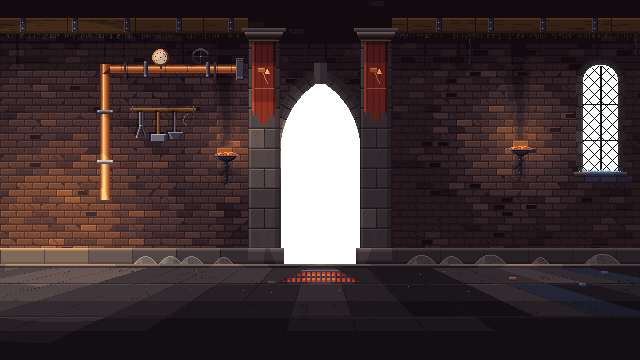
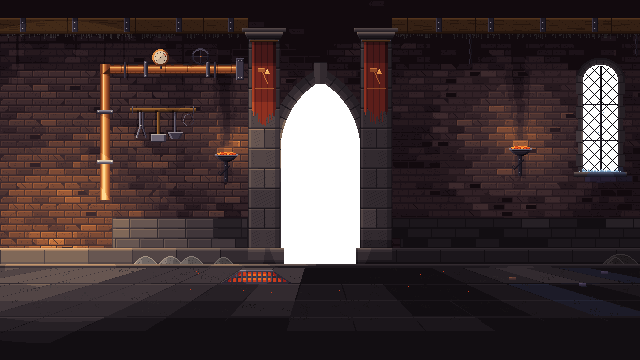
art: F2-SALA — ritmo del ladrillo y fondo tranquilo tras los enemigos (C19)
- Tras los enemigos: juntas a 1,0 paso del ladrillo (antes ~2,4), zócalo de sillería, paños de ladrillo,
  suelo −1 paso. Rejilla a x 256, fuera de las placas de PV. Vetas del ciclo II fuera de los huecos.
- 4 variantes normales y 2 de tiro, ciclos I y II, rehorneadas; test_mv: nueva check_stage.
- Contraste mínimo a 1/4 en 8 salas: ácaro 0,043–0,061 → 0,070–0,099; limo 0,033–0,043 → 0,076–0,086;
  murciélago sin cambio (su valor medio es el del muro: se corrige en la criatura).
Pendiente: muro del tiro y saeteras. Evidencia y diario en docs/reviews/v04/mundo_vivo/f2_sala/.

Claude-Session: https://claude.ai/code/session_01QNUS8YfdZMMBUQPTLseeFn

diff --git a/docs/reviews/v04/mundo_vivo/f2_sala/diario.md b/docs/reviews/v04/mundo_vivo/f2_sala/diario.md
@@ -1,0 +1,70 @@
+# F2-SALA · Diario (C19 y lectura de criaturas contra la sala)
+
+## Cambios (todo en `scripts/art/bg/bg_act1.gd`, horneado en `assets/baked/rooms/`)
+- **Escena de los enemigos** (`STAGE_X = 300`, borde dentado por hiladas): las juntas quedan a −1 paso del ladrillo vecino
+  (`_joint_v` compensa el paso de luz que la junta pierde al hornear). Medida en el índice: tendeles a 0,97–1,12 pasos del
+  ladrillo tras los enemigos, frente a 2,16–2,55 en el muro de la heroína (6 variantes, ciclo I). Prueba nueva en
+  `tests/art/test_mv.gd` (`check_stage`).
+- **Zócalo de sillería** (y 218–248, 3 hiladas de 10 px, sillares de 24–32 px, extremos dentados) en las dos paredes. Tras
+  los enemigos queda 1 paso en sombra y con juntas a −1. Rompe el ritmo del ladrillo justo donde están los pies.
+- **Grupos de ladrillo de otra hornada**: paños de ~3×3 piezas, −1 (o +1 fuera de la escena), con borde dentado.
+- **Suelo y zócalo tras los enemigos −1** (canto del zócalo y del suelo, −2). El charco de los braseros de la escena es menor
+  y ya no ilumina el canto del suelo. Los montones de ceniza salen de los huecos x 320–602. El pie del pilar de x 360 queda
+  en sombra sólo por debajo de y 240, para no restar al murciélago en x 350.
+- **Rejilla del suelo** a x 256 (`GRATE_X`, ancho 221–291): queda entre la placa de la heroína (≤ 201) y la primera de
+  enemigo (≥ 311). Se mueven también su luz y el ancla `grate`, de la que salen las brasas de `AmbientFlue`.
+- **Vetas del ciclo II**: los focos salen de detrás de los enemigos (de 470,244 y 556,160 a 614,244 y 436,146).
+- No cambia: paleta (sólo `Palette`), fuentes vivas, parpadeos ni presupuesto de movimiento. Las capas lejana y de cielo
+  tampoco se tocan.
+
+## Medida de contraste (gris a 1/4, `test_da.thumbnail_separation`)
+Método: `BgAct1.build` de las 12 variantes (4 normales y 2 de tiro × ciclos I y II), con las capas compuestas en vista previa
+(luz dinámica 0). Encima, cada fotograma de reposo horneado de la criatura, centrado como `FighterView` (centro del
+rectángulo usado del f0, socket `ground` en y 264). Se toma el **mínimo sobre los fotogramas** en los huecos reales de
+`enemy_db` (acto 1). `mite*` es el cuerpo sin cera ni llama, como en F2-CRIA2b. «Con placa»: la misma escena con la placa
+de PV recortada de la captura y pegada bajo los pies.
+
+| Criatura@hueco | Sin placa: antes → después (mín. de 8 salas) | Con placa: antes → después |
+|---|---|---|
+| `candle_mite*` @350/396/460/540/572 | 0,048 / 0,061 / 0,059 / 0,043 / 0,045 → **0,079 / 0,094 / 0,099 / 0,082 / 0,070** | 0,02 → 0,04–0,05 |
+| `candle_mite` entero @350/572 | 0,174 / 0,213 → 0,201 / 0,248 | 0,15 / 0,19 → 0,17 / 0,21 |
+| `ash_slime` @396/466/540 | 0,043 / 0,042 / 0,033 → **0,078 / 0,086 / 0,076** | 0,01–0,02 → 0,03–0,05 |
+| `cinder_bat` @350 | 0,075 → 0,075 | igual |
+| `cinder_bat` @396–572 | 0,000–0,007 → 0,000–0,010 | igual |
+| `soot_golem` @396/466 | 0,044 / 0,043 → 0,061 / 0,074 | 0,03 → 0,04–0,05 |
+| `ember_magpie` @396/466 | 0,104 / 0,118 → 0,138 / 0,156 | 0,08 / 0,10 → 0,11 / 0,13 |
+| `flame_moth` @396/540 | 0,076 / 0,092 → 0,084 / 0,098 | igual |
+| `hollow_knight` @466 (tiro) | 0,097 → 0,102 | 0,084 → 0,085 |
+
+En capturas reales del recorrido (piso 4; fotograma localizado por encaje exacto de color):
+
+| Captura | Antes | Después |
+|---|---|---|
+| `07` gólem@350 · urraca@460 · babosa@572 | 0,027 · 0,114 · 0,030 | 0,013 · 0,147 · 0,062 |
+| `18b` murciélago@350 · polilla@460 · ácaro*@572 · ácaro@572 | 0,101 · 0,106 · 0,068 · 0,226 | 0,101 · 0,113 · 0,097 · 0,252 |
+
+## Por qué no llega todo a 0,10 (pendiente honesto)
+- **El murciélago no se arregla desde la sala.** Su media es 0,125, la misma que el muro, y sus alas finas dejan ~30 % de
+  fondo dentro de sus celdas de figura. Así Δ ≈ 0,7·|muro − 0,125|, y pasar pide un muro ≥ 0,27 (ladrillo paso 7). Lo
+  simulé con el muro superior a 0,28–0,36 y el zócalo a 0,06. El murciélago pasa en 396–572, pero el gólem, la babosa y la
+  polilla caen a 0,00–0,06. Con criaturas de medias 0,125 (murciélago), 0,19–0,20 (gólem, babosa, polilla) y 0,26–0,29
+  (urraca, ácaro), ningún valor de fondo las separa a todas. Hace falta luz de recorte o canto en la criatura (C13 sigue
+  abierta para el murciélago, archivos de criaturas).
+- **Ácaro y babosa** quedan en 0,07–0,10. Lo que falta lo ponen su propia base oscura (filas de sombra dentro de la figura)
+  y el arco o el pilar en x 350/396. Bajar más el zócalo y el suelo los deja casi negros: es aplanar la sala.
+- **La placa de PV** pesa mucho: barra roja 0,53 y cifras 0,90 dentro del anillo. Con placa casi nada llega a 0,10. Si el
+  criterio §4.1 se aplica en juego, hay que decidir si la placa cuenta como entorno (dirección/HUD).
+- **Gólem en x 350** (sólo en el recorrido; en `enemy_db` el gólem va a 396/466) baja de 0,027 a 0,013: allí el arco es más
+  claro que él y el pie del pilar, más oscuro, le resta.
+
+## No hecho / no comprobado
+- Muro del tiro menos plano y saeteras lejanas: no tocados (capa lejana). `check_room_quality` sigue en verde.
+- Vetas: sólo cambié los focos. El trazado en escalera sigue igual.
+- Ciclos II en juego, rendimiento y el pico C20: sin medir. Las capturas son por software (xvfb).
+
+## Evidencia
+- `antes_despues_07.png`, `antes_despues_18b.png`: arriba antes y abajo después (capturas del recorrido, a 1/2).
+- `gris_1de4_07.png`, `gris_1de4_18b.png`: miniatura en grises a 1/4, ampliada ×3 (arriba antes).
+- `variantes_despues.png`: las 12 variantes (vista previa). Filas: normal v0–v3 × c0/c1 y tiro v0–v1 × c0/c1.
+- `tools/qa.sh bake --only=rooms`: 50 archivos, `--check` al día. `tools/qa.sh all`: juego 1745/0, arte 5 suites/0.
+  Recorrido con `SHOTS_DIR=/tmp/claude-0/shots_sala`: sin fallos (sólo el `ERR_CANT_OPEN` de audio).
